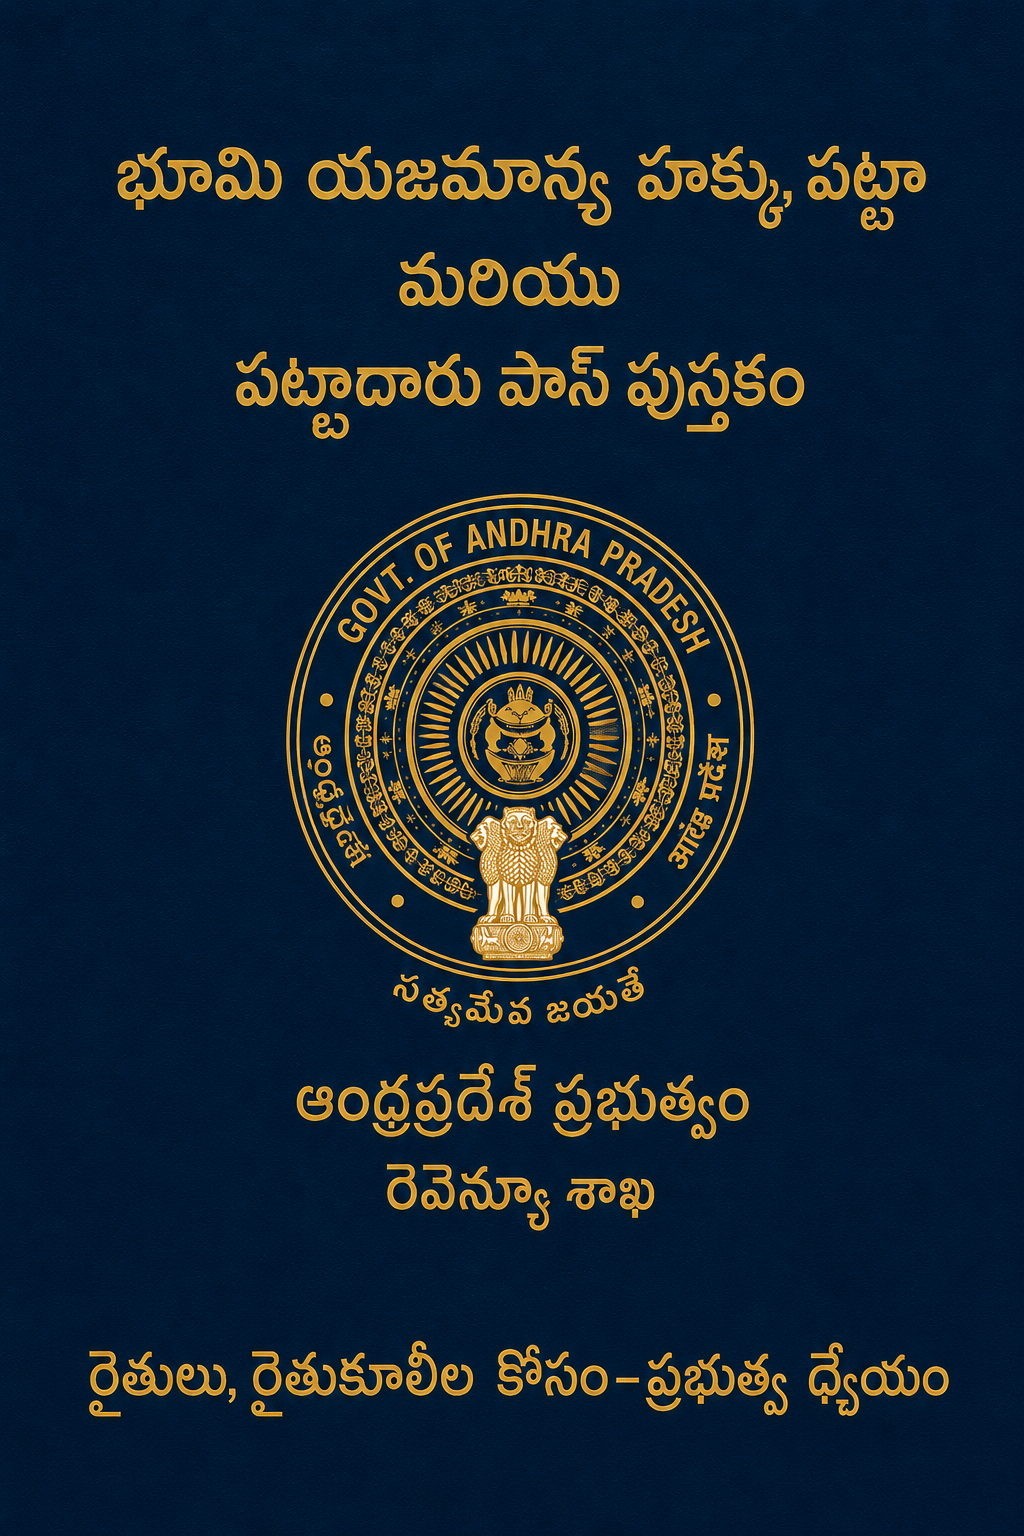
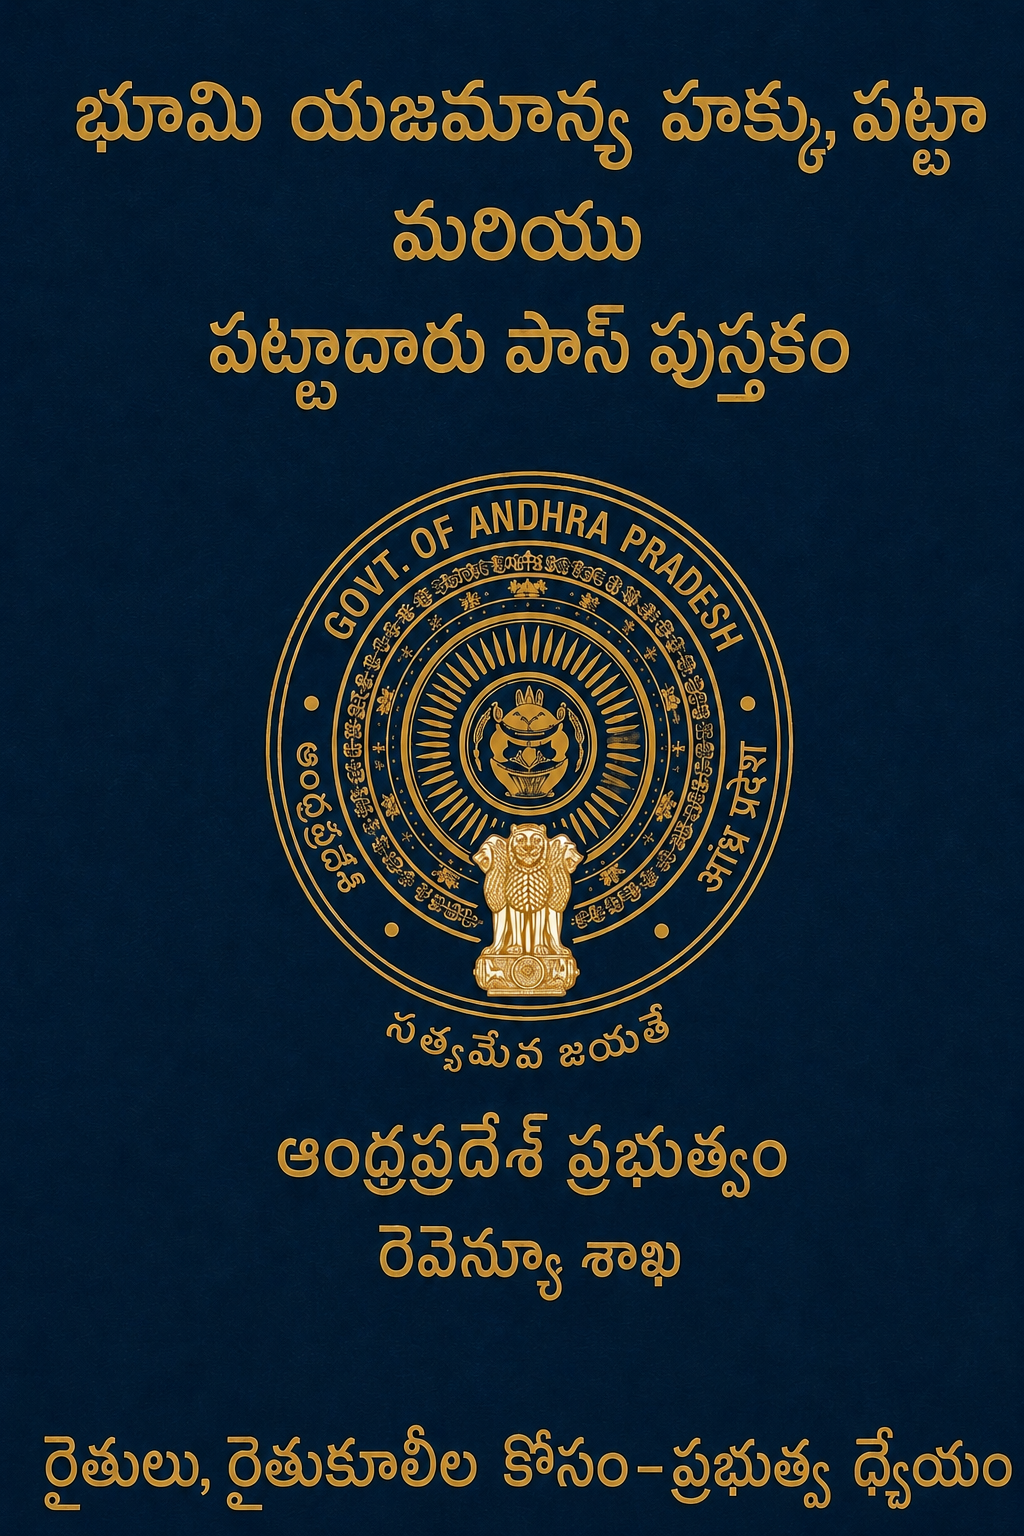
final

Changed region(s): [[0.0625, 0.0312, 0.9688, 0.8438], [0.0312, 0.875, 1.0, 1.0]]

diff --git a/src/Styles/development.css b/src/Styles/development.css
@@ -16,7 +16,6 @@
    padding: 30px !important;
 }
 
- 
 .lop-cta-btn {
   background: #d4a017;
   color: #fff;
@@ -296,7 +295,6 @@
 }
 
 
-
 .lop-achievement-section{
   max-width:1400px;
   margin:auto;
@@ -308,15 +306,12 @@
   grid-template-columns:2fr 1fr;
   gap:20px;
 }
-
-/* LAND */
-
 /* LAND RECORDS CARD */
 
 .lop-land-card{
   background:#fff;
   border:1px solid #e5e5e5;
-  background-image: url(../assests/passbook2.png);
+  background-image: url(../assests/passbook2.jpeg);
   background-position: center;
   background-size: cover;
   background-repeat: no-repeat;
